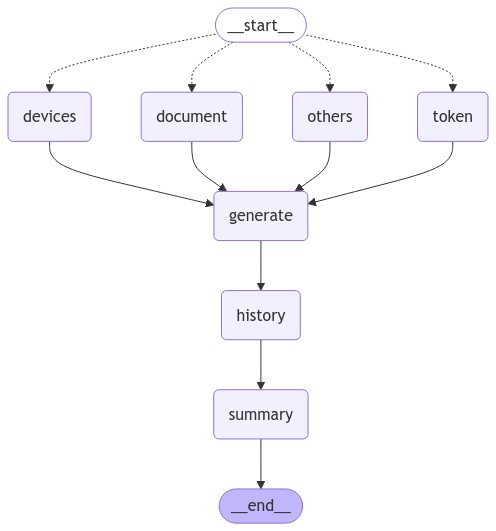
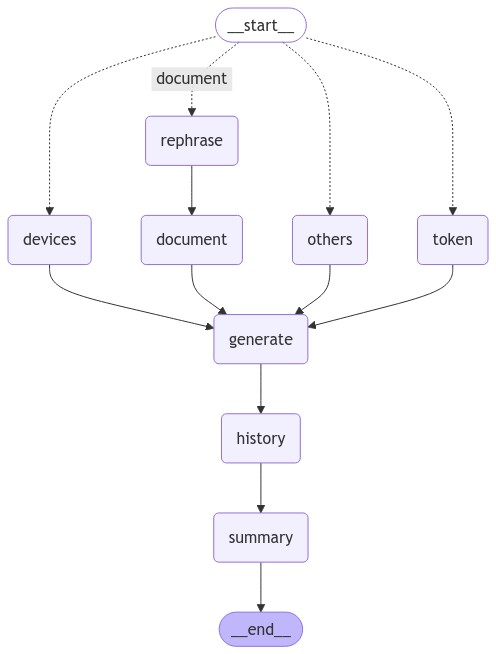
refine question node

diff --git a/app/ai/graph/nodes/question_node.py b/app/ai/graph/nodes/question_node.py
@@ -1,0 +1,33 @@
+import logging
+from typing import Any, Dict
+
+from langchain_core.messages import SystemMessage
+from langchain_core.output_parsers import StrOutputParser
+from langchain_core.prompts import ChatPromptTemplate, MessagesPlaceholder, HumanMessagePromptTemplate
+
+from app.ai.graph.state import GraphState
+from app.ai.llms import build_llm
+from app.services.conversation import get_last_messages_by_count
+
+prompt = ChatPromptTemplate(
+    messages=[
+        SystemMessage(content="""
+                    Given the following chat history and a follow up question, 
+                    rephrase the follow up question to be a standalone question.
+                    """),
+        MessagesPlaceholder(variable_name="chat_history"),
+        HumanMessagePromptTemplate.from_template("{question}")
+    ]
+)
+def refine_question_node(state: GraphState) -> Dict[str, Any]:
+    question = state["question"]
+    conversation_id = state["conversation_id"]
+    logging.info("Re-factoring question for vector db")
+    last_messages = get_last_messages_by_count(conversation_id, 3)
+    if len(last_messages) == 0:
+        return {"refined_question": question}
+
+    llm = build_llm(state, False)
+    chain = prompt | llm | StrOutputParser()
+    response = chain.invoke({"question": question, "chat_history": last_messages})
+    return {"refined_question": response}

diff --git a/app/ai/graph/graph.py b/app/ai/graph/graph.py
@@ -1,14 +1,15 @@
 
 from langgraph.graph import END, StateGraph
 
-from .consts import DOCUMENT, TOKEN, DEVICES, GENERATE, OTHERS, HISTORY, SUMMARY
+from .consts import DOCUMENT, TOKEN, DEVICES, GENERATE, OTHERS, HISTORY, SUMMARY, REFINE
 from .nodes import (retrieve_document_node, route_question_node, user_devices_node,
                     token_usage_node, generate_output_node, other_node, save_history_node,
-                    save_summary_node)
+                    save_summary_node, refine_question_node)
 from .state import GraphState
 
 workflow = StateGraph(GraphState)
 
+workflow.add_node(REFINE, refine_question_node)
 workflow.add_node(DOCUMENT, retrieve_document_node)
 workflow.add_node(TOKEN, token_usage_node)
 workflow.add_node(DEVICES, user_devices_node)
@@ -20,12 +21,13 @@ workflow.add_node(SUMMARY, save_summary_node)
 workflow.set_conditional_entry_point(
     route_question_node,
     {
-        DOCUMENT: DOCUMENT,
+        DOCUMENT: REFINE,
         TOKEN: TOKEN,
         DEVICES: DEVICES,
         OTHERS: OTHERS
     },
 )
+workflow.add_edge(REFINE, DOCUMENT)
 workflow.add_edge(DOCUMENT, GENERATE)
 workflow.add_edge(TOKEN, GENERATE)
 workflow.add_edge(DEVICES, GENERATE)

diff --git a/app/ai/graph/nodes/document_node.py b/app/ai/graph/nodes/document_node.py
@@ -1,25 +1,16 @@
+import logging
 from typing import Any, Dict
 
-from langchain_core.messages import SystemMessage
-from langchain_core.prompts import ChatPromptTemplate, MessagesPlaceholder, HumanMessagePromptTemplate
-
-from app.config import CUSTOM_PROMPT
 from app.data.vector import build_retriever
 from ..state import GraphState
 
-prompt = ChatPromptTemplate(
-    messages=[
-        SystemMessage(content=CUSTOM_PROMPT),
-        MessagesPlaceholder(variable_name="chat_history"),
-        MessagesPlaceholder(variable_name="context"),
-        HumanMessagePromptTemplate.from_template("{question}")
-    ]
-)
+
 def retrieve_document_node(state: GraphState) -> Dict[str, Any]:
     """
     Vector retriever node
     """
-    question = state["question"]
+    question = state.get("refined_question", state["question"])
+    logging.info("Vector question: %s", question)
     retriever = build_retriever()
     documents = retriever.invoke(question)
     chunks = [doc.page_content for doc in documents]

diff --git a/app/ai/graph/nodes/generate.py b/app/ai/graph/nodes/generate.py
@@ -21,7 +21,7 @@ prompt = ChatPromptTemplate(
 )
 
 async def generate_output_node(state: GraphState) -> Dict[str, Any]:
-    question = state["question"]
+    question = state.get("refined_question", state["question"])
     conversation_id = state["conversation_id"]
     summary = get_conversation_summary(conversation_id)
     documents = state.get("documents", [])
@@ -30,5 +30,5 @@ async def generate_output_node(state: GraphState) -> Dict[str, Any]:
     chain = prompt | llm | StrOutputParser()
     answer = await chain.ainvoke({"context": documents, "question": question, "chat_history": [summary]})
 
-    messages = [HumanMessage(content=question), AIMessage(content=answer)]
-    return {"question": question, "answer": answer, "conv_summary": summary, "messages": messages}
+    messages = [HumanMessage(content=state["question"]), AIMessage(content=answer)]
+    return {"answer": answer, "conv_summary": summary, "messages": messages}

diff --git a/app/services/conversation.py b/app/services/conversation.py
@@ -40,6 +40,20 @@ def get_messages_by_transaction_id(
     messages = messageRepo.get_txn_messages(txn_id)
     return [message.as_lc_message() for message in messages]
 
+def get_last_messages_by_count(
+    conversation_id: uuid, n: int
+) -> [AIMessage | HumanMessage | SystemMessage]:
+    """
+    Finds last n messages that belong to the given conversation_id
+
+    :param conversation_id: The id of the conversation
+    :param n: number of messages
+
+    :return: A list of messages
+    """
+    messages = messageRepo.get_n_conversation_messages(n, conversation_id)
+    return [message.as_lc_message() for message in messages]
+
 def add_message_to_conversation(
     conversation_id: uuid, role: str, content: str, transaction_id: uuid
 ):

diff --git a/app/data/sql/repo.py b/app/data/sql/repo.py
@@ -68,6 +68,13 @@ class ConversationMessageRepo:
         with Session() as session:
             stmt = select(ConversationMessage).where(ConversationMessage.transaction_id == txn_id)
             return session.scalars(stmt).all()
+    def get_n_conversation_messages(self, n, conv_id):
+        """
+        Method to fetch last N messages related to given conversation
+        """
+        with Session() as session:
+            stmt = select(ConversationMessage).where(ConversationMessage.conversation_id == conv_id).order_by(ConversationMessage.created_on.desc()).limit(n)
+            return session.scalars(stmt).all()
 
 class ConversationSummaryRepo:
     """

diff --git a/app/ai/graph/state.py b/app/ai/graph/state.py
@@ -1,7 +1,8 @@
 from typing import List, TypedDict, Annotated
 from uuid import UUID
-from langgraph.graph.message import add_messages
+
 from langchain_core.messages import BaseMessage
+from langgraph.graph.message import add_messages
 
 
 class GraphState(TypedDict):
@@ -20,6 +21,7 @@ class GraphState(TypedDict):
     conversation_id: UUID
     transaction_id: UUID
     question: str
+    refined_question: str
     answer: str
     documents: List[str]
     conv_summary: str

diff --git a/app/ai/graph/nodes/__init__.py b/app/ai/graph/nodes/__init__.py
@@ -3,6 +3,7 @@ from .document_node import retrieve_document_node
 from .generate import generate_output_node
 from .history_node import save_history_node
 from .others import other_node
+from .question_node import refine_question_node
 from .router_node import route_question_node
 from .summary_node import save_summary_node
 from .token_node import token_usage_node

diff --git a/app/services/chat.py b/app/services/chat.py
@@ -11,6 +11,7 @@ from .conversation import get_default_user_conversation, create_new_user_convers
 from ..ai.graph.consts import GENERATE
 from ..ai.graph.graph import graph
 
+
 async def aanswer(request: Request, user: LoggedInUser):
     """
     Answer the user query async

diff --git a/app/ai/graph/consts.py b/app/ai/graph/consts.py
@@ -5,3 +5,4 @@ GENERATE = "generate"
 OTHERS = "others"
 HISTORY = "history"
 SUMMARY = "summary"
+REFINE = "refine"

diff --git a/app/models/chat.py b/app/models/chat.py
@@ -1,7 +1,6 @@
 """
 Chat Module contains chat models
 """
-import uuid
 
 from pydantic import BaseModel
 
